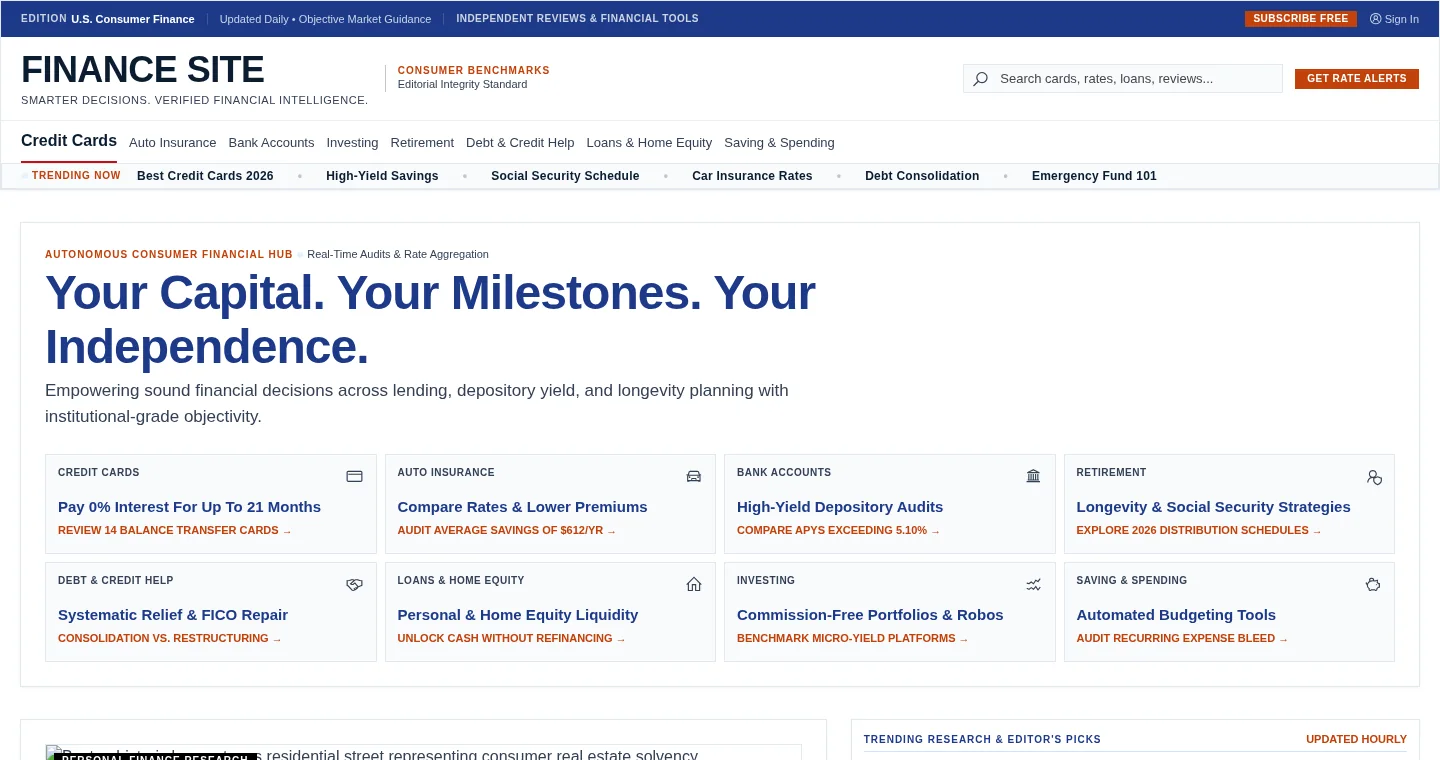
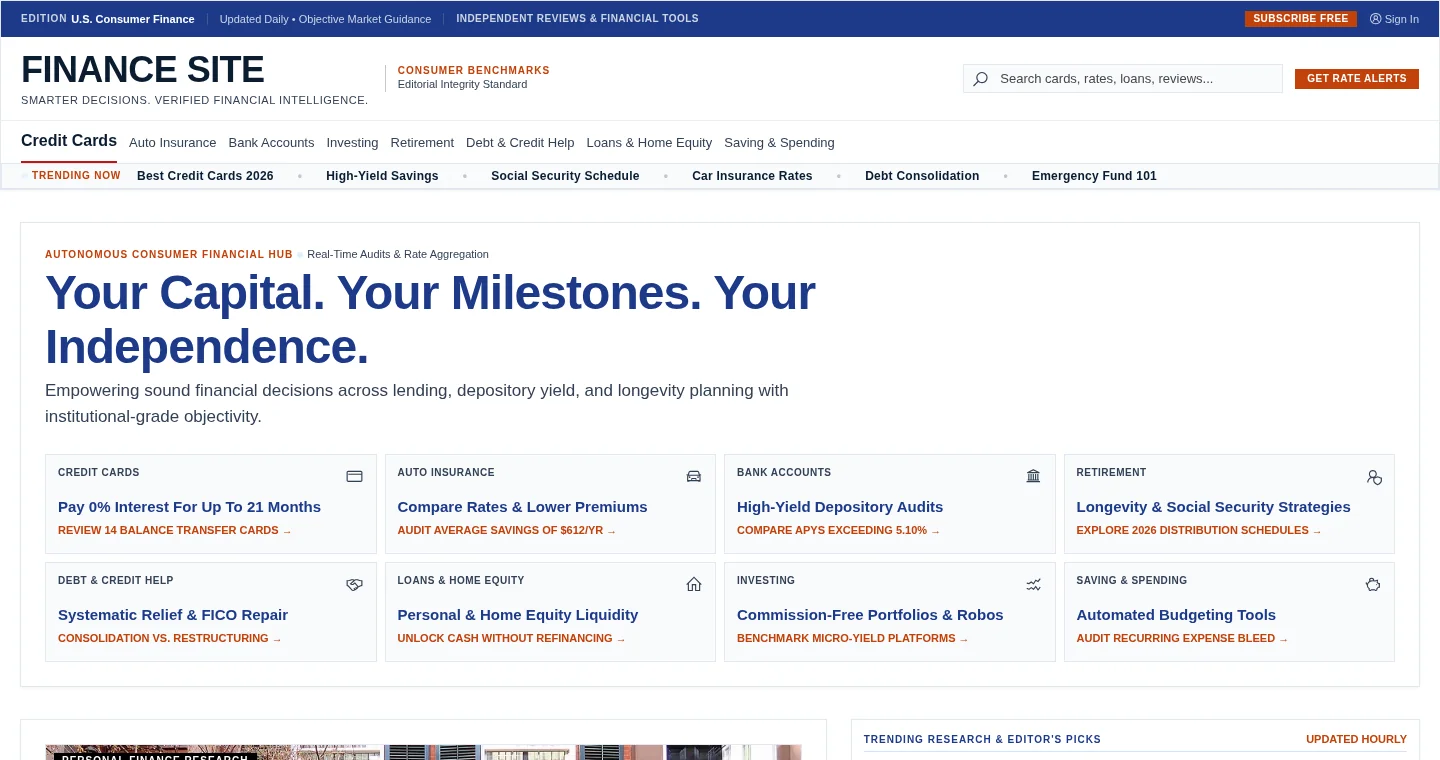
Point the Finance Site card at the live site
No source link: the card opens the page. Screenshot retaken now that the
images are real.

Changed region(s): [[0.0312, 0.9684, 0.5625, 1.0]]

diff --git a/index.html b/index.html
@@ -207,12 +207,12 @@ nav .hire{color:var(--ink);font-weight:500}
         </div>
       </article>
       <article class="card s6" style="--a:#1e3a8a;--pos:left top">
-        <div class="shot" aria-hidden="true"><img src="assets/shots/finance.webp" alt="A consumer finance comparison hub with a navy header and a grid of credit-card, bank and insurance topics" width="1440" height="760" loading="lazy"></div>
+        <a class="shot" href="https://arnelcolar.github.io/finance-site/" tabindex="-1" aria-hidden="true"><img src="assets/shots/finance.webp" alt="A consumer finance comparison hub with a navy header and a grid of credit-card, bank and insurance topics" width="1440" height="760" loading="lazy"></a>
         <div class="body">
-          <div class="meta"><span class="idx">05</span><span class="type">Own project · Comparison site</span></div>
+          <div class="meta"><span class="idx">05</span><span class="type">Own project · Live site</span></div>
           <h3>Finance Site</h3>
           <p>A consumer finance hub across four pages: credit cards, banks, insurance and retirement, with comparison tables and an accessibility pass on every page.</p>
-          <div class="links"><a href="https://github.com/arnelcolar/finance-site">Source</a></div>
+          <div class="links"><a href="https://arnelcolar.github.io/finance-site/">Visit the site</a></div>
         </div>
       </article>
 
